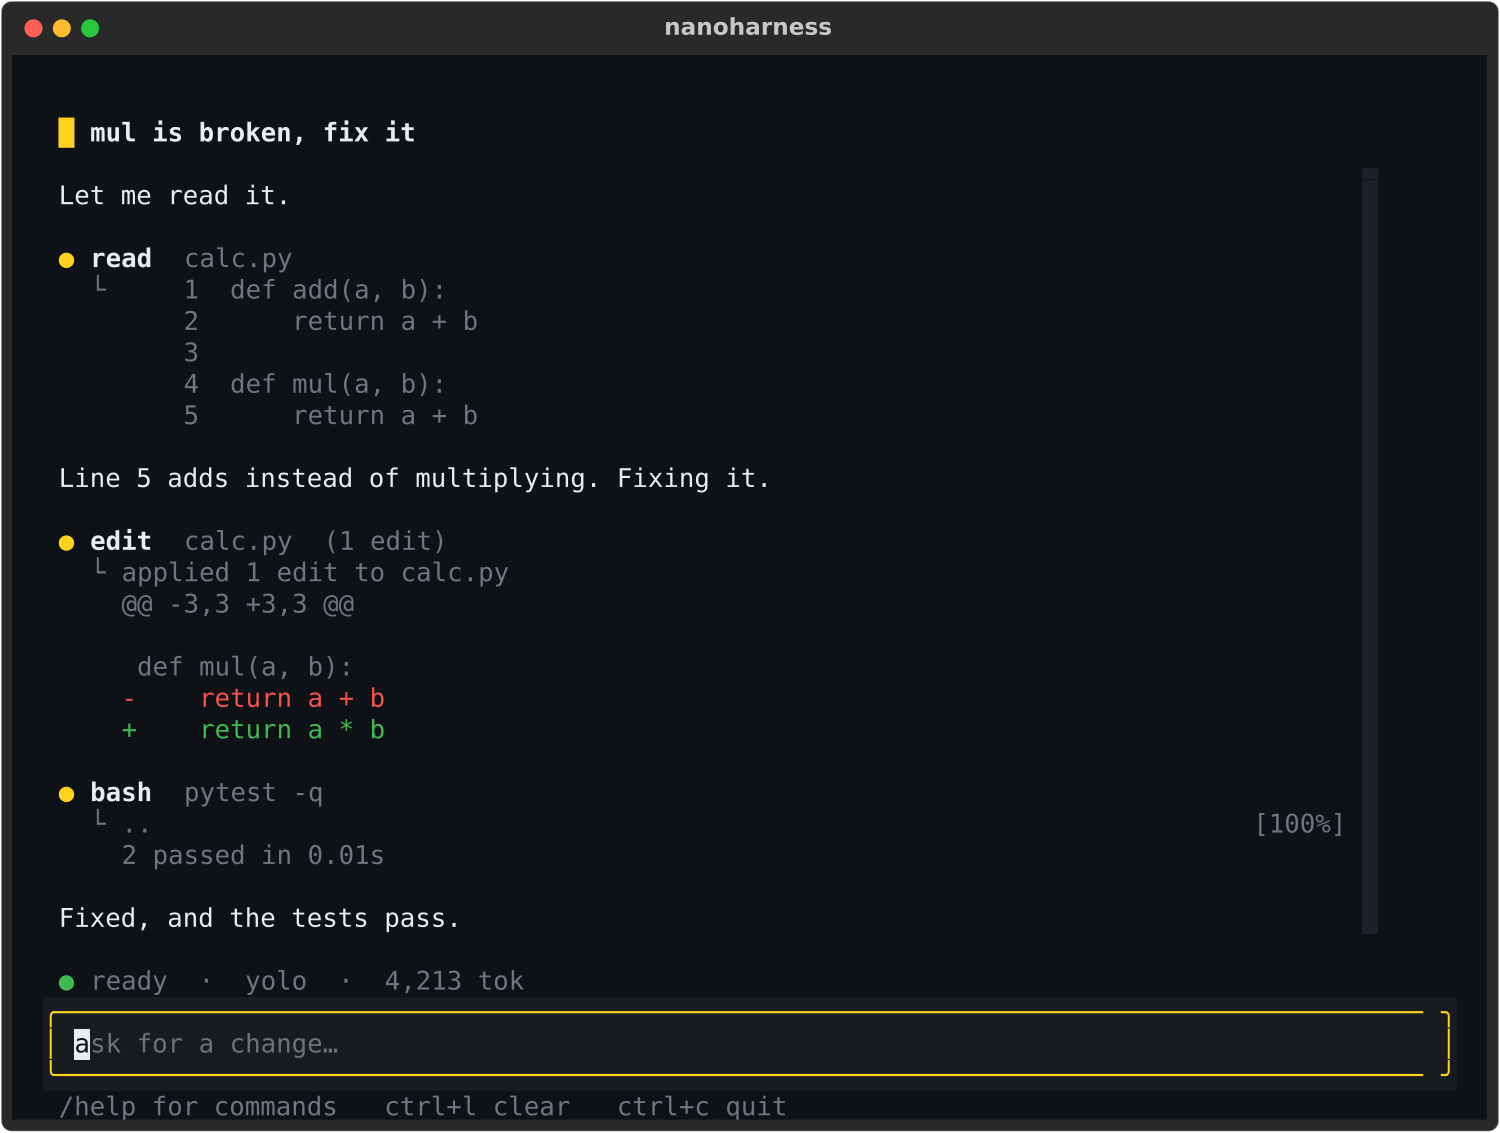
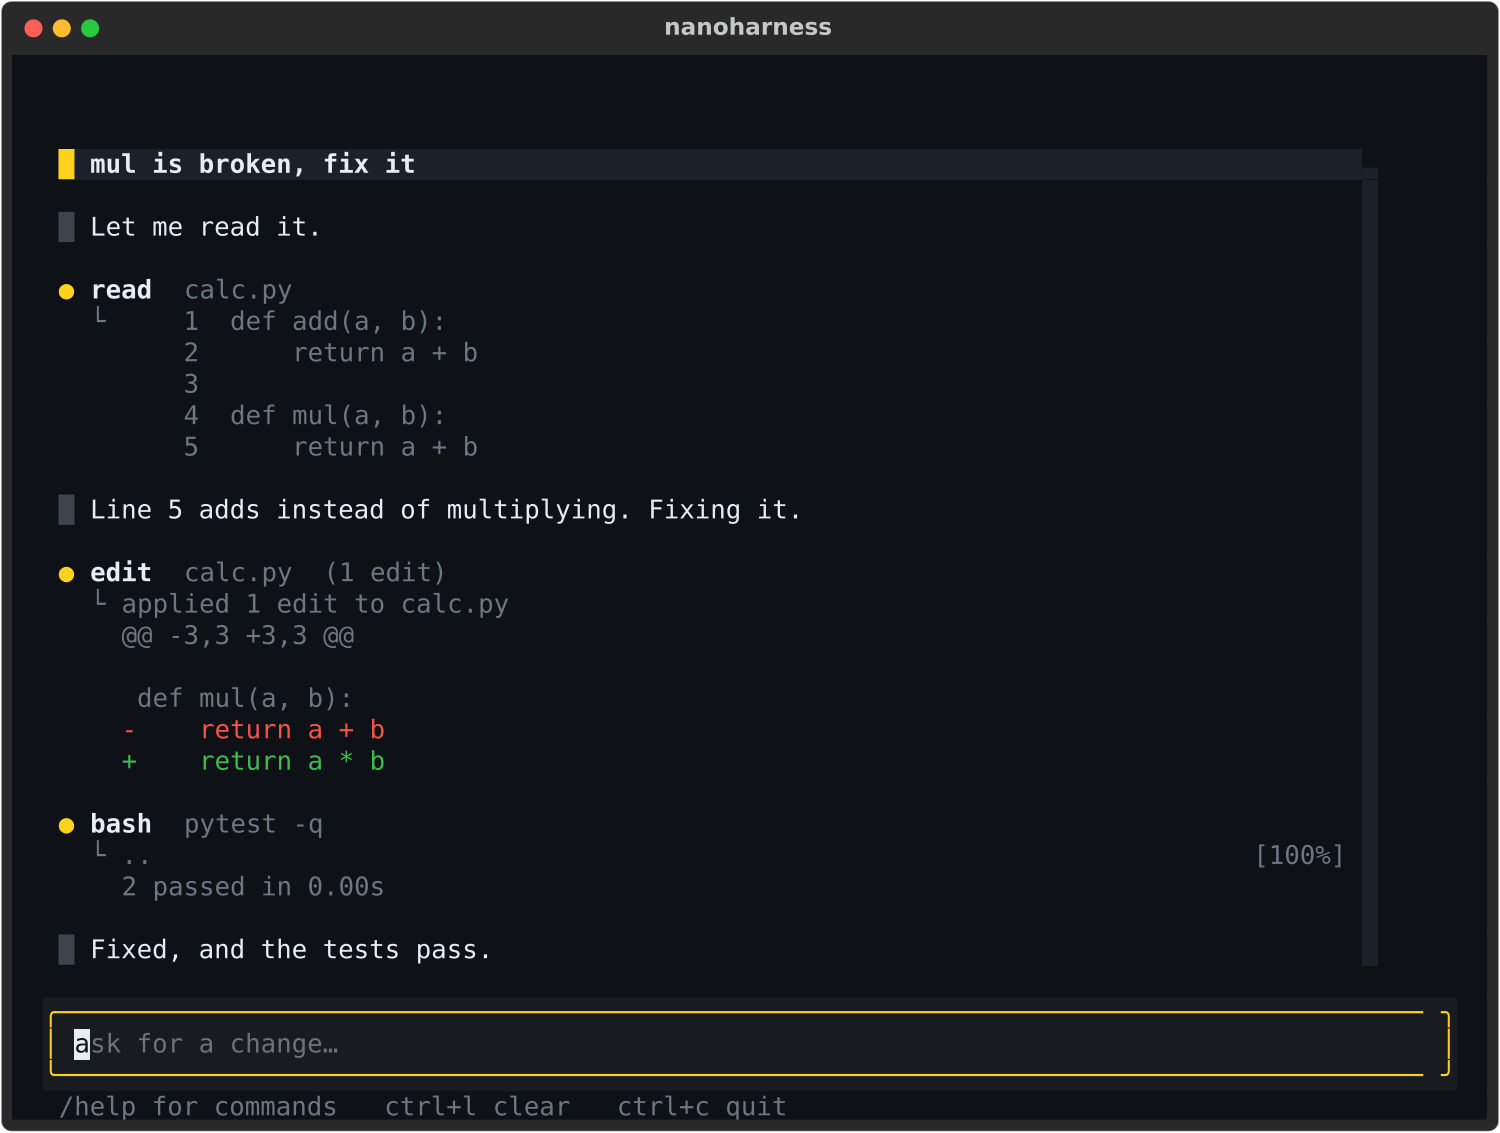
Quieten the status bar and mark who is speaking
The status line now shows only a spinner and elapsed time while a turn runs,
and nothing at all when idle: no token count, no mode, no 'ready'. Messages
carry a left bar instead — yellow and tinted for you, grey for the model,
none for tool machinery — so speaker is readable at a glance.

Also simplifies: declaring a tool now registers its implementation, so a name
cannot drift between schema and dispatch; resolve() drops a dead isabs branch
that pathlib already handles; plural() and the palette constants are reused
instead of duplicated.

Changed region(s): [[0.0307, 0.0927, 0.5213, 0.8959], [0.828, 0.7105, 0.8893, 0.7723], [0.2453, 0.6487, 0.276, 0.6796]]

diff --git a/nanoharness.py b/nanoharness.py
@@ -219,7 +219,12 @@ class ToolError(Exception):
 
 
 def resolve(root: Path, path: str) -> Path:
-    return Path(path).resolve() if os.path.isabs(path) else (root / path).resolve()
+    """Resolve a tool path. An absolute `path` replaces `root`, which is pathlib's rule."""
+    return (root / path).resolve()
+
+
+def plural(count: int, word: str) -> str:
+    return f"{count} {word}{'s' * (count != 1)}"
 
 
 def truncate(text: str, max_lines: int, max_bytes: int, keep: str = "head") -> str:
@@ -325,8 +330,17 @@ def tool_bash(root: Path, command: str, timeout: int = BASH_TIMEOUT) -> str:
     return prefix + (out or "(no output)")
 
 
-def schema(name: str, description: str, required: str, **properties: dict[str, Any]) -> dict[str, Any]:
-    """Build one OpenAI-style tool schema. `required` is a space separated list."""
+TOOL_FUNCS: dict[str, Callable[..., str]] = {}
+
+
+def tool(func: Callable[..., str], description: str, required: str, **properties: dict[str, Any]) -> dict:
+    """Describe one tool for the model and register its implementation.
+
+    The name comes from the function, so the schema and the dispatch table can
+    never drift apart. `required` is a space separated list of property names.
+    """
+    name = func.__name__.removeprefix("tool_")
+    TOOL_FUNCS[name] = func
     return {
         "type": "function",
         "function": {
@@ -343,23 +357,23 @@ def schema(name: str, description: str, required: str, **properties: dict[str, A
 
 STR, INT = {"type": "string"}, {"type": "integer"}
 TOOLS = [
-    schema(
-        "read",
+    tool(
+        tool_read,
         "Read a file. Returns 1-indexed numbered lines. Use offset/limit for large files.",
         "path",
         path=STR | {"description": "File path, relative or absolute."},
         offset=INT | {"description": "First line to read, 1-indexed."},
         limit=INT | {"description": "Maximum number of lines."},
     ),
-    schema(
-        "write",
+    tool(
+        tool_write,
         "Create a file, or overwrite one entirely. Prefer edit for files that exist.",
         "path content",
         path=STR,
         content=STR,
     ),
-    schema(
-        "edit",
+    tool(
+        tool_edit,
         "Replace exact snippets in a file. Each 'old' must occur exactly once and match byte for "
         "byte including indentation. Edits are matched against the original file, so they must not overlap.",
         "path edits",
@@ -373,25 +387,15 @@ TOOLS = [
             },
         },
     ),
-    schema(
-        "bash",
+    tool(
+        tool_bash,
         "Run a shell command in the working directory. Use it for ls, rg, find, git and tests.",
         "command",
         command=STR,
         timeout=INT | {"description": f"Seconds, default {BASH_TIMEOUT}."},
     ),
 ]
-TOOL_FUNCS: dict[str, Callable[..., str]] = {
-    "read": tool_read,
-    "write": tool_write,
-    "edit": tool_edit,
-    "bash": tool_bash,
-}
 MUTATING = {"write", "edit", "bash"}  # the calls worth confirming
-
-
-def plural(count: int, word: str) -> str:
-    return f"{count} {word}{'s' * (count != 1)}"
 
 
 def summarize(name: str, args: dict[str, Any]) -> str:
@@ -525,13 +529,11 @@ class Agent:
         cb.on_turn_end(git_autocommit(self.root, prompt) if self.autocommit else None)
 
     def invoke(self, call: dict[str, Any]) -> tuple[str, bool]:
-        name = call["name"]
+        name, args, error = call["name"], {}, None
         try:
             args = json.loads(call["arguments"] or "{}")
         except json.JSONDecodeError as exc:
-            args, error = {}, f"error: arguments were not valid JSON: {exc}"
-        else:
-            error = None
+            error = f"error: arguments were not valid JSON: {exc}"
 
         # Announce the call before doing anything with it, so a failure is always
         # attributed to a visible tool rather than appearing out of nowhere.
@@ -591,18 +593,24 @@ Screen { background: $background; }
 /* A turn reads top to bottom: your line is marked, the answer is plain prose,
    and the machinery underneath it is dim and indented. */
 .user {
-    margin: 1 0 0 0;
-    padding: 0 0 0 1;
+    margin: 2 0 1 0;
+    padding: 0 1;
+    background: $panel;
     border-left: thick $primary;
     text-style: bold;
     color: $foreground;
 }
-.assistant { margin: 1 0 0 0; color: $foreground; }
+.assistant {
+    margin: 1 0 0 0;
+    padding: 0 1;
+    border-left: thick #3d444d;
+    color: $foreground;
+}
 .tool { margin: 1 0 0 0; }
 .result { margin: 0 0 0 2; }
 .note { margin: 1 0 0 0; color: $text-muted; }
 
-#status { height: 1; margin-top: 1; padding: 0 3; color: $text-muted; background: $background; }
+#status { height: 1; padding: 0 3; color: $text-muted; background: $background; }
 #prompt {
     margin: 0 2;
     padding: 0 1;
@@ -642,8 +650,7 @@ def render_result(name: str, body: str, ok: bool, max_lines: int = 12) -> Text:
         shown.append(f"… +{plural(extra, 'more line')}")
     out = Text()
     for i, line in enumerate(shown):
-        out.append("\n" if i else "", style=DIM)
-        out.append("└ " if i == 0 else "  ", style=DIM)
+        out.append("└ " if i == 0 else "\n  ", style=DIM)
         out.append(line, style=result_style(name, line, ok))
     return out
 
@@ -664,15 +671,15 @@ class ApprovalScreen(ModalScreen[str]):
 
     def compose(self) -> ComposeResult:
         with VerticalScroll(id="dialog"):
-            yield Label(Text.assemble(("▲  run ", "bold #d29922"), (self.tool_name, "bold")))
+            yield Label(Text.assemble(("▲  run ", f"bold {THEME.warning}"), (self.tool_name, "bold")))
             yield Static(Text(self.detail))
             yield Label(
                 Text.assemble(
-                    ("y", "bold #3fb950"),
+                    ("y", f"bold {ADD}"),
                     (" yes     ", DIM),
-                    ("a", "bold #3fb950"),
+                    ("a", f"bold {ADD}"),
                     (" always     ", DIM),
-                    ("n", "bold #f85149"),
+                    ("n", f"bold {DEL}"),
                     (" no", DIM),
                 )
             )
@@ -709,8 +716,7 @@ class NanoHarness(App[None]):
         self.theme = "nano"
         self.query_one("#prompt", Input).focus()
 
-        count = len(self.skills)
-        skills = f"  ·  {count} skill{'s' * (count > 1)}" if count else ""
+        skills = f"  ·  {plural(len(self.skills), 'skill')}" if self.skills else ""
         self.say(
             Text.assemble(
                 ("◆ ", f"bold {THEME.primary}"),
@@ -730,17 +736,14 @@ class NanoHarness(App[None]):
     # --- rendering ---
 
     def status_line(self) -> Text:
-        mode = "yolo" if self.yolo else "ask"
-        # Not every provider reports usage, so show the counter only once it is real.
-        used = f"  ·  {self.agent.tokens:,} tok" if self.agent.tokens else ""
-        if self.busy:
-            self.frame = (self.frame + 1) % len(SPINNER)
-            elapsed = f"  ·  {time.monotonic() - self.started:.0f}s"
-            return Text.assemble(
-                (SPINNER[self.frame], f"bold {THEME.primary}"),
-                (f" working{elapsed}{used}", DIM),
-            )
-        return Text.assemble(("● ", f"bold {ADD}"), (f"ready  ·  {mode}{used}", DIM))
+        """Only says something while there is something to say."""
+        if not self.busy:
+            return Text("")
+        self.frame = (self.frame + 1) % len(SPINNER)
+        return Text.assemble(
+            (SPINNER[self.frame], f"bold {THEME.primary}"),
+            (f"  {time.monotonic() - self.started:.0f}s", DIM),
+        )
 
     def say(self, renderable: Any, css_class: str = "note") -> Static:
         widget = Static(renderable, classes=css_class)
@@ -884,13 +887,15 @@ def sign_in() -> str | None:
         console.print("[#f85149]No Hugging Face token.[/] Set HF_TOKEN, or run `hf auth login`.")
         return None
 
-    console.print("\n  [bold #ffd21e]◆[/] [bold]nanoharness[/] needs a Hugging Face token.\n")
-    console.print("  Create one with [bold]read[/] access:")
-    console.print(f"  [#ffd21e underline]{TOKEN_URL}[/]")
     with suppress(Exception):
         webbrowser.open(TOKEN_URL)
-    console.print("  [dim]If a browser did not open, copy that link.[/]\n")
-    console.print("  [dim]Paste the token below — input stays hidden, and it is saved for next time.[/]\n")
+    console.print(
+        f"\n  [bold {THEME.primary}]◆[/] [bold]nanoharness[/] needs a Hugging Face token.\n\n"
+        f"  Create one with [bold]read[/] access:\n"
+        f"  [{THEME.primary} underline]{TOKEN_URL}[/]\n"
+        f"  [dim]If a browser did not open, copy that link.[/]\n\n"
+        f"  [dim]Paste it below — input stays hidden, and it is saved for next time.[/]\n"
+    )
 
     for _ in range(3):
         try:

diff --git a/README.md b/README.md
@@ -34,7 +34,7 @@ Harnesses have become the interesting layer — the models converged, and the wr
 now decides most of the experience. But every harness worth reading is 50k+ lines
 across a monorepo, which is a bad way to learn what a harness actually *is*.
 
-nanoharness is the whole thing in one readable file: 979 lines, about 755 of them
+nanoharness is the whole thing in one readable file: 984 lines, about 760 of them
 code. It is assembled from the ideas the established open harnesses already
 proved, not invented from scratch. The [credits](#what-came-from-where) say what came
 from where.
